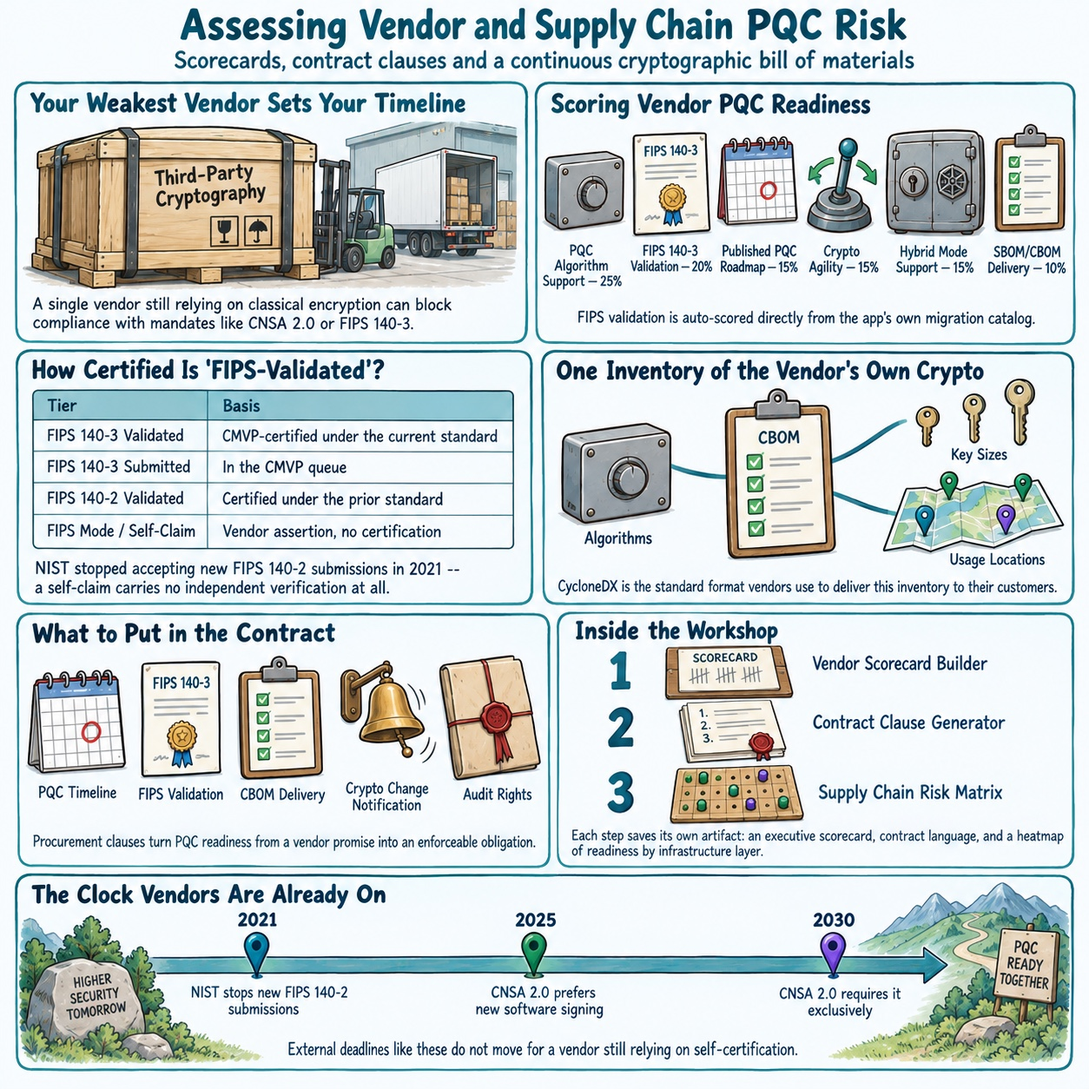
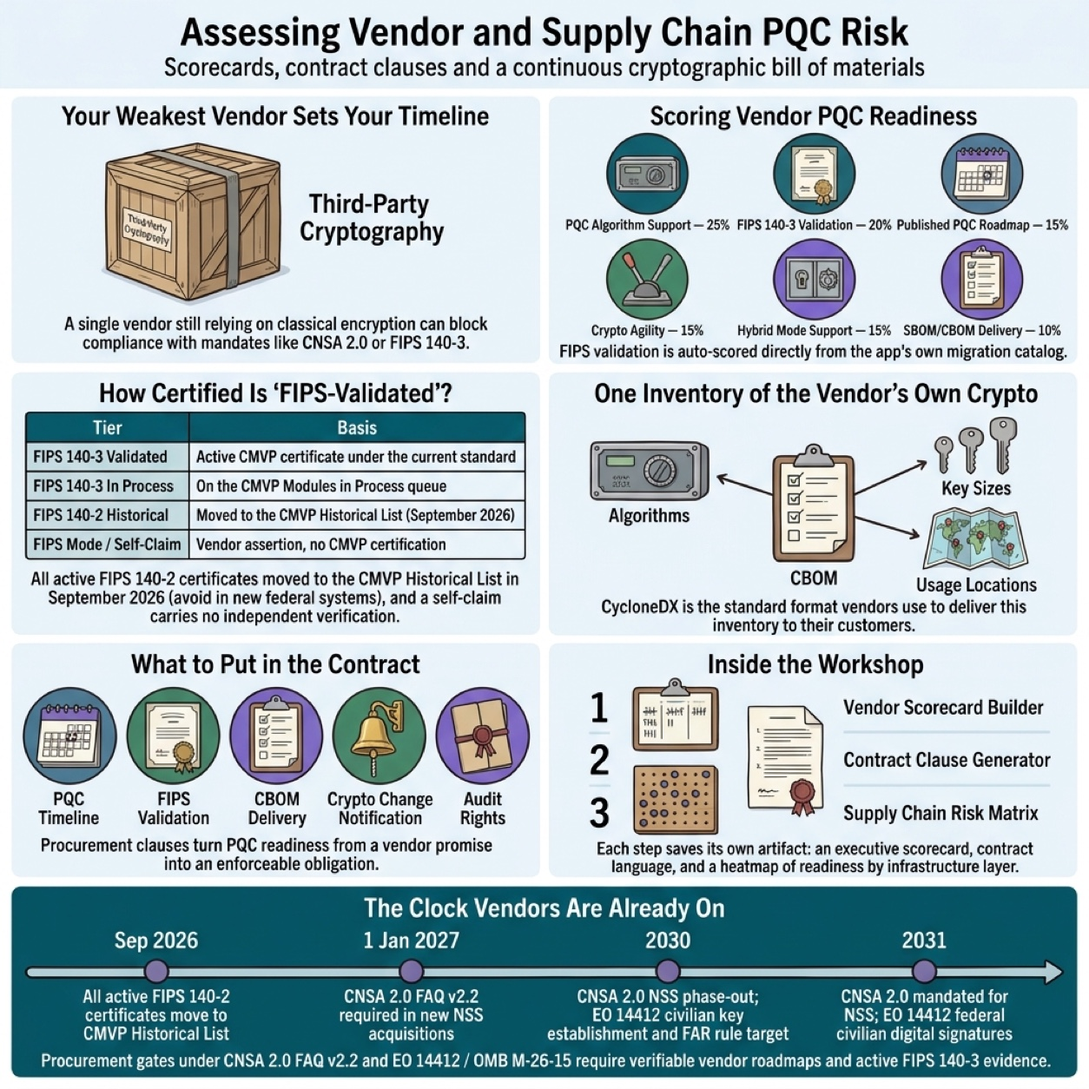
release: v4.218.1 — expanded Hub FAQ, 21 Storybook Blue visual posters, and PR #993 revision promotion

diff --git a/src/components/FAQ/faqData.ts b/src/components/FAQ/faqData.ts
@@ -542,7 +542,7 @@ export const FAQ_DATA: FAQCategory[] = [
       {
         question: 'What OpenSSH version supports PQC?',
         answer:
-          "OpenSSH 8.5 (2021) introduced the sntrup761x25519-sha512 hybrid key exchange, which combines the NTRU Prime lattice-based KEM with classical X25519 ECDH, and OpenSSH 9.0 made it the default. More recent OpenSSH development includes support for ML-KEM-768-based hybrid key exchange, aligning with NIST's standardized algorithms. The VPN/SSH module explains host key migration and client configuration for PQC.",
+          'OpenSSH 8.5 (2021) introduced the sntrup761x25519-sha512 hybrid key exchange, and OpenSSH 9.0 made it the default. OpenSSH 9.9 added the NIST-standardized mlkem768x25519-sha256 hybrid key exchange (RFC 10042), and OpenSSH 10.0 made mlkem768x25519-sha256 the default key-exchange algorithm. Note that hybrid key exchange protects session confidentiality against Harvest Now, Decrypt Later attacks, while SSH host-key and user authentication remain classical (such as Ed25519 or ECDSA) unless separately configured; verify negotiated algorithms with ssh -vvv against your actual jump hosts and clients. The VPN/SSH module covers configuration and verification.',
         deepLink: '/learn/vpn-ssh-pqc',
       },
       {
@@ -633,6 +633,20 @@ export const FAQ_DATA: FAQCategory[] = [
           'Zero Trust architecture relies heavily on cryptographic authentication at every access point — device attestation certificates, mutual TLS, JWT and SAML token signatures, and API gateway authentication all use algorithms that are quantum-vulnerable and need PQC upgrades. The transition is especially complex because Zero Trust systems often involve multiple identity providers, device management platforms, and micro-segmentation controllers. The IAM PQC module covers the identity and authentication layer migration.',
         deepLink: '/learn/iam-pqc',
       },
+      {
+        id: 'cloud-pqc-migration',
+        question: 'How does PQC migration work across AWS, Azure, and Google Cloud (Cloud & SaaS)?',
+        answer:
+          'Start by separating the cloud service (such as object storage, managed databases, or records archiving) from the protected asset (long-lived encrypted records exposed to Harvest Now, Decrypt Later risk) — moving workloads to the cloud does not migrate customer-controlled TLS policies, origin legs, KMS keys, or BYOK wrappers automatically. Edge CDNs and load balancers may negotiate TLS 1.3 hybrid key exchange (X25519MLKEM768, 0x11EC under RFC 9846 and RFC 10024) while origin connections stay classical, and ~1,216-byte ClientHello key_share payloads can trigger middlebox truncation. Cloud KMS offerings also differ sharply: AWS KMS supports ML-DSA (June 2025) and ML-KEM (October 2026, with China/UAE/Bahrain regional exclusions, RSA-only BYOK import, 32-byte plaintext Decapsulate output, and no key-policy condition requiring PQ-TLS — verify negotiated keyExchange in CloudTrail); Google Cloud KMS reached GA for ML-DSA and SLH-DSA in July 2026 with HPKE key import in Preview; and Azure Key Vault uses CKM_RSA_AES_KEY_WRAP for BYOK without KMIP. Across SaaS, OIDC, and SAML dependencies, treat any unverified or Unknown vendor answer as an evidence gap rather than low exposure. The Cloud & Multi-Cloud PQC module walks through each layer.',
+        deepLink: '/learn/cloud-pqc',
+      },
+      {
+        id: 'pqc-implementation-security',
+        question: 'Why is mathematical security not enough — what is PQC implementation security?',
+        answer:
+          'Known-answer validation (such as ACVP vector testing) confirms that an implementation computes the right mathematical output, not that its compiled binary or silicon resists timing, power, electromagnetic, or fault-injection attacks. Real-world lattice vulnerabilities such as KyberSlash leaked ML-KEM secret keys through variable-latency hardware division instructions on modulus q = 3329, requiring constant-time Barrett or Montgomery reduction verified on compiled binaries via per-ISA disassembly scans (banning DIV/SDIV/UDIV), dudect timing statistics, and Timecop/ctgrind taint analysis. FIPS 203 Algorithm 18 also mandates Fujisaki-Okamoto implicit rejection in ML-KEM.Decaps — computing K_bar = J(z || c) unconditionally, comparing re-encrypted ciphertexts in constant time, selecting K or K_bar via branchless conditional move, and zeroizing intermediate values without returning a decryption error oracle. For HSMs, smart cards, and embedded targets, defenses combine arithmetic and boolean masking, operation shuffling, and verify-after-sign fault checks, evaluated with leakage screening such as ISO/IEC 17825 Welch’s t-test (TVLA |t| <= 4.5, noting that a first-order TVLA pass screens statistical leakage rather than proving higher-order or template-attack resistance). The PQC Implementation Security module covers each defense and its evaluation limits.',
+        deepLink: '/learn/pqc-implementation-security',
+      },
     ],
   },
 
@@ -682,8 +696,8 @@ export const FAQ_DATA: FAQCategory[] = [
       {
         question: 'What is the energy sector PQC migration?',
         answer:
-          'The energy sector must migrate PQC across SCADA and ICS protocols (including DNP3 and IEC 61850 Secure Authentication), substation automation (IEC 62351), and grid management systems, while managing long equipment lifecycles. The NERC-CIP standards named in the NERC-CIP entry above do not mention PQC, so quantum-resilient cryptography for bulk electric system protection is a readiness recommendation based on those lifecycles, not a NERC-CIP requirement today. The Energy and Utilities module covers the specific protocols and regulatory requirements.',
-        deepLink: '/learn/ot-pqc',
+          'Energy and utility operators must separate operational grid services (SCADA telecontrol, AMI meter collection, IED firmware distribution) from protected assets (long-lived grid topology records, metering histories, and signing roots) and match PQC patterns to strict physical constraints. Inside substations, IEC 61850 GOOSE and Sampled Values protection loops operate under a sub-4 ms trip budget and 1,500-byte Ethernet MTU where 2,420-byte ML-DSA-44 signatures do not fit, so real-time IEC 62351-6 frames retain 32-byte HMAC-SHA-256 and AES-256-GCM while out-of-band GDOI (RFC 8052) and TLS 1.3 key distribution migrate to ML-KEM-768. Control-center WAN links upgrade primary fiber and failover paths to hybrid TLS 1.3 (RFC 10024) and IKEv2 (RFC 9370), while 15-to-25-year field assets and 127-byte IEEE 802.15.4g AMI meter meshes (DLMS/COSEM IEC 62056) pair head-end PQC VPNs and 256-bit symmetric keys with LMS-SHA256 or ML-DSA firmware verification in new RFPs. The NERC-CIP standards named in the NERC-CIP entry above do not mention PQC, so quantum-resilient cryptography for bulk electric system protection is a readiness recommendation based on those lifecycles, not a NERC-CIP requirement today. The Energy, Utilities & Grid PQC module covers these protocols, MTU budgets, and regulatory boundaries.',
+        deepLink: '/learn/energy-utilities-pqc',
       },
       {
         question: 'How does PQC protect AI systems?',
@@ -716,7 +730,7 @@ export const FAQ_DATA: FAQCategory[] = [
       {
         question: 'Can I test PQC algorithms in my browser?',
         answer:
-          "Yes, PQC Today's Playground runs ML-KEM, ML-DSA, SLH-DSA, and over 40 additional algorithms directly in your browser using WebAssembly, performing real cryptographic operations without sending any data to a server. You can generate keys, encapsulate/decapsulate shared secrets, sign and verify messages, and compare algorithm performance. The Playground supports both the liboqs library and a PKCS#11 v3.2 HSM simulator.",
+          "Yes. PQC Today's Playground provides 34 interactive WebAssembly and client-side cryptographic tools — including ML-KEM, ML-DSA, SLH-DSA, LMS/HSS, XMSS, dual-engine SoftHSMv3 (C++ and Rust) PKCS#11 v3.2, OpenSSL 3.6.3 WASM, KMIP, TPM 2.0, SP 800-90B entropy assessment, SSH/IKEv2/TLS/HPKE/Hybrid Certs labs, ACVP vector suites, and editable Pyodide (Python 3.14.2) PKCS#11 and KMIP workbenches — without sending keys or sample data to a server. Playground runs teach mechanism behavior, wire framing, and capability requirements using sample keys; they do not substitute for testing or certifying your own CMVP-validated production hardware and software.",
         deepLink: '/playground',
       },
       {
@@ -728,7 +742,7 @@ export const FAQ_DATA: FAQCategory[] = [
       {
         question: 'How many learning modules does PQC Today offer?',
         answer:
-          'PQC Today offers dozens of interactive learning modules organized across nine tracks: Foundations, Protocols, Applications, Hardware Infrastructure, Software Infrastructure, Strategy, Industries, Governance & Risk, and Role Guides. Each module includes an introduction with glossary-linked terms, interactive workshop exercises, and knowledge assessment questions. Module durations range from 10 minutes to 120 minutes depending on complexity.',
+          'PQC Today offers 79 interactive learning modules (plus a 1,178-question adaptive quiz) organized across nine tracks: Foundations, Protocols, Applications, Hardware Infrastructure, Software Infrastructure, Strategy, Industries, Governance & Risk, and Role Guides. Each module includes an introduction with glossary-linked terms, a Storybook Blue visual summary, interactive workshop exercises, role capability checklists, decision scenarios, and Reference Library backlinks. Completing sample exercises builds decision readiness for your role; it does not verify a deployed production system.',
         deepLink: '/learn',
       },
       {
@@ -746,7 +760,7 @@ export const FAQ_DATA: FAQCategory[] = [
       {
         question: 'What is the PQC Reference Library?',
         answer:
-          'The PQC Reference Library is a curated collection of hundreds of standards, RFCs, research papers, and migration guides relevant to post-quantum cryptography, with cross-references linking related documents and enrichment metadata providing summaries and PQC relevance assessments. Documents are categorized by type, issuing organization, and relevance to specific algorithms and use cases. The Library supports full-text search and filtering.',
+          'The PQC Reference Library is a curated collection of over 1,500 standards, RFCs, research papers, certification schemes, and national migration guides relevant to post-quantum cryptography, with cross-references linking related documents to Learn modules, compliance frameworks, and algorithms, plus enrichment summaries and PQC relevance assessments. The Library supports full-text search, topic filtering, and shareable deep links.',
         deepLink: '/library',
       },
       {
@@ -764,13 +778,13 @@ export const FAQ_DATA: FAQCategory[] = [
       {
         question: "Where should I start if I'm new to PQC?",
         answer:
-          "Start with PQC 101 — a 30-minute foundational module covering what quantum computers can break, why migration is urgent, and how to use Mosca's Theorem to gauge your own deadline. If you prefer context by role: executives should visit the Executive Quantum Impact module, developers the Developer Quantum Impact module, and architects the Architect module. For an organization-specific starting point, run the PQC Risk Assessment wizard — it takes about 15 minutes and produces a prioritized action list based on your industry, country, and data profile. Use this FAQ's search bar to jump directly to any specific topic.",
+          "Start with PQC 101 — a 30-minute foundational module covering what quantum computers can break, why migration is urgent, and how to use Mosca's Theorem to gauge your own deadline — or pick one of the 8 role-tailored learning paths (Executive, GRC & Compliance, Developer, Architect, Researcher, Certification Engineer, IT Operations, or Curious Explorer), each split into a focused Essentials path and a full mastery curriculum. For an organization-specific starting point, run the PQC Risk Assessment wizard to generate a prioritized educational roadmap based on your industry, country, and data profile.",
         deepLink: '/learn/pqc-101',
       },
       {
         question: 'What is the Business Center (GRC Command Center)?',
         answer:
-          'The Business Center is a governance, risk, and compliance command center aligned to NIST CSWP.39, with 34 board-ready planning tools — including an ROI Calculator, Board Pitch builder, CRQC Scenario, Risk Register, Risk Treatment Plan, RACI Builder, Roadmap Builder, KPI dashboards, Vendor Scorecard, and Deployment Playbook. Each tool produces a downloadable artifact (DOCX, PDF, or CSV) you can take into stakeholder and audit conversations.',
+          'The Business Center is a governance, risk, and compliance command center aligned to NIST CSWP 39, with 37 planning and governance tools — including an ROI Calculator, Board Pitch Builder, CRQC Scenario Planner, Risk Register, Risk Treatment Plan, RACI Builder, Roadmap Builder, Migration Verification, Cloud Responsibility Matrix, Vendor Scorecard, and Deployment Playbook. Each tool uses transparent sample scenarios and exports structured planning artifacts (DOCX, PDF, CSV, or Markdown) to guide what your team must configure, test, and evidence in your own production tools.',
         deepLink: '/business',
       },
       {
@@ -784,6 +798,25 @@ export const FAQ_DATA: FAQCategory[] = [
         answer:
           'Yes. The Patents page is a searchable landscape of post-quantum cryptography patents, scored for quantum relevance and crypto-agility and tagged by assignee, region, protocol, replaced classical algorithm, hardware component, and NIST standardization status. It also serves as CSWP.39 maturity evidence. Use the Insights, Explore, and Search tabs to filter, and open any patent record directly with a shareable link.',
         deepLink: '/patents',
+      },
+      {
+        question: 'How do the 8 role learning paths and Knowledge Graph (/explore) work?',
+        answer:
+          'PQC Today curates dedicated learning journeys for eight roles — Executive, GRC & Compliance, Developer, Architect, Researcher, Certification Engineer, IT Operations, and Curious Explorer — separating a streamlined Essentials track from deeper domain mastery so each role focuses on the decisions it actually owns. The Explore page connects those paths with an interactive Knowledge Graph mapping relationships across modules, standards, algorithms, threats, compliance frameworks, and interactive tools.',
+        deepLink: '/explore',
+      },
+      {
+        question: 'How does the adaptive PQC Quiz work?',
+        answer:
+          'The PQC Quiz draws from a pool of 1,178 scenario- and decision-based questions spanning FIPS 203/204/205, NIST IR 8547, CNSA 2.0 FAQ v2.2, EO 14412 / OMB M-26-15, FIPS 140-3 and EUCC validation, cloud KMS boundaries, side-channel defenses, and sector-specific OT/grid constraints. Learners can take role-scoped Essentials checks or topic-filtered practice sets with detailed source-backed explanations.',
+        deepLink: '/learn/quiz',
+      },
+      {
+        question:
+          'How does PQC Today verify data provenance, revisions, and software supply-chain trust?',
+        answer:
+          'Key platform datasets and inventory artifacts — including the content revision log, the RAG search corpus and vector embeddings, the CycloneDX 1.7 Software Bill of Materials (SBOM), the Cryptography Bill of Materials (CBOM), and OSCAL governance bundles — carry detached ML-DSA-65 cryptographic signatures verified at build and deploy time. You can inspect dataset freshness, software inventory versions, and revision history directly on the Revisions and About pages.',
+        deepLink: '/revisions',
       },
       {
         question: 'Can I bookmark or share a specific view?',
@@ -811,7 +844,7 @@ export const FAQ_DATA: FAQCategory[] = [
       {
         question: 'What PQC libraries should developers use?',
         answer:
-          "Treat sample and research libraries and production libraries as two different decisions. For learning, prototypes and interoperability tests, liboqs (C, with wrappers such as liboqs-python) and oqsprovider for OpenSSL are sample and research options: their own documentation says not to rely on them in a production environment or to protect sensitive data. For production, evaluate the supported library already in your platform and language stack. For example, OpenSSL 3.5 and later include ML-KEM, ML-DSA and SLH-DSA natively; Go's standard library has had crypto/mlkem since Go 1.24 and enables X25519MLKEM768 by default in crypto/tls; and Bouncy Castle for Java and AWS-LC include ML-KEM and ML-DSA implementations. The Rust pqcrypto crates are marked unmaintained by their maintainers, who advise against using them in new projects. For any library, evaluate before production: whether the release is supported and maintained, what validation applies (a FIPS 140-3 certificate covers a specific validated module, as with the FIPS module of AWS-LC, not every feature of a library), and whether the protocols you need interoperate with your peers. The Developer Quantum Impact module covers library API transitions across OpenSSL, Bouncy Castle and liboqs bindings.",
+          "Treat sample and research libraries and production libraries as two different decisions. For learning, prototypes and interoperability tests, liboqs (C, with wrappers such as liboqs-python) and oqsprovider for OpenSSL are sample and research options: their own documentation says not to rely on them in a production environment or to protect sensitive data. For production, evaluate the supported library already in your platform and language stack. For example, OpenSSL 3.5 and later include ML-KEM, ML-DSA and SLH-DSA natively; Go's standard library has had crypto/mlkem since Go 1.24 and enables X25519MLKEM768 by default in crypto/tls; Node.js 24+ includes native node:crypto ML-KEM and ML-DSA APIs plus hybrid TLS groups; Java 24+ JCA provides standard KEM and ML-DSA Signature APIs alongside Bouncy Castle; and AWS-LC includes ML-KEM and ML-DSA implementations. The Rust pqcrypto crates are marked unmaintained by their maintainers, who advise against using them in new projects. For any library, evaluate before production: whether the release is supported and maintained, what validation applies (a FIPS 140-3 certificate covers a specific validated module, as with the FIPS module of AWS-LC, not every feature of a library), and whether the protocols you need interoperate with your peers. The Developer Quantum Impact and Crypto Dev APIs modules include side-by-side before-and-after migration code diffs across Go 1.24+, OpenSSL 3.5+, Node.js 24+ and Java 24+ JCA.",
         deepLink: '/learn/dev-quantum-impact',
         persona: 'developer',
       },
@@ -847,6 +880,23 @@ export const FAQ_DATA: FAQCategory[] = [
         answer:
           "The PQC Governance module provides a RACI (Responsible, Accountable, Consulted, Informed) matrix builder for PQC migration stakeholders, policy templates covering four organizational layers (board, executive, management, operational), governance model selection guidance, and a KPI dashboard for tracking migration progress at the board level. It integrates with the Risk Assessment to align governance decisions with your organization's specific risk profile.",
         deepLink: '/learn/pqc-governance',
+        persona: 'grc',
+      },
+      {
+        id: 'cert-engineer-quantum-impact',
+        question: 'What should certification engineers know about PQC validation?',
+        answer:
+          'Active FIPS 140-2 certificates moved to the CMVP Historical List on 21 September 2026, so adding ML-KEM, ML-DSA, or SLH-DSA runs through FIPS 140-3 and a congested Modules in Process (MIP) queue across new validations and 1SUB/3SUB/5SUB updates. PQC validation combines deterministic seed-driven ACVP Algorithm Functional Tests (AFT) for keyGen, FIPS 140-3 IG 10.3.A pre-operational CASTs and conditional PCTs inside the module boundary, and mandatory SP 800-90B Entropy Source Validation (ESV) paired with SP 800-90C seeding rules, alongside regional schemes such as EUCC (CIR (EU) 2024/482), NIAP Policy #33, and PCI PTS HSM v5.0 (kept separate from PCI DSS v4.0.1 operational rules). Never equate an ACVP validation record, a CAVP algorithm certificate, or a MIP queue listing with an active FIPS 140-3 module certificate — verify exact firmware, operating environment, and Security Policy, and record Unknown wherever evidence is missing. The Quantum Impact on Certification Engineers module maps these lab schedules and evidence boundaries.',
+        deepLink: '/learn/cert-quantum-impact',
+        persona: 'cert-engineer',
+      },
+      {
+        id: 'curious-talking-about-pqc',
+        question: 'How do I explain PQC to non-specialists or explore as a Curious learner?',
+        answer:
+          'The Curious Explorer Essentials path pairs three short, plain-language modules — PQC 101, Quantum Threats, and Talking About PQC (80 minutes total) — with Storybook Blue visual summaries on every module so newcomers can grasp why RSA and ECC need replacing, why Harvest Now, Decrypt Later creates immediate urgency for long-lived secrets, and how to separate sourced government timelines from hype without heavy math or organizational jargon.',
+        deepLink: '/learn/talking-about-pqc',
+        persona: 'curious',
       },
       {
         question: 'How do I assess vendor PQC readiness?',
@@ -974,9 +1024,9 @@ export const PERSONA_FAQ_LEAD: Record<PersonaId, string[]> = {
     'Is PQC Today open source?',
   ],
   'cert-engineer': [
+    'What should certification engineers know about PQC validation?',
     'What is FIPS 140-3 and why does the validation backlog matter?',
     "What is Common Criteria's role in PQC?",
-    'What HSMs support ML-KEM and ML-DSA?',
   ],
   ops: [
     'What PQC operations tasks should IT teams plan?',
@@ -984,8 +1034,8 @@ export const PERSONA_FAQ_LEAD: Record<PersonaId, string[]> = {
     'How do you configure PQC TLS on Linux?',
   ],
   curious: [
+    'How do I explain PQC to non-specialists or explore as a Curious learner?',
     "Where should I start if I'm new to PQC?",
-    'What is post-quantum cryptography (PQC)?',
     'What is a "Harvest Now, Decrypt Later" (HNDL) attack?',
   ],
 }

diff --git a/src/components/FAQ/FAQPage.test.tsx b/src/components/FAQ/FAQPage.test.tsx
@@ -3,6 +3,8 @@ import { describe, it, expect, beforeEach } from 'vitest'
 import { render, screen, within } from '@testing-library/react'
 import { MemoryRouter } from 'react-router'
 import { FAQPage } from './FAQPage'
+import { FAQ_DATA } from './faqData'
+import { PERSONA_IDS } from '@/data/learningPersonas'
 import { usePersonaStore } from '@/store/usePersonaStore'
 
 function renderPage() {
@@ -36,7 +38,19 @@ describe('FAQPage persona highlight ("float, don\'t filter")', () => {
     const questionButtons = withinSection.getAllByRole('button')
     expect(questionButtons[0]).toHaveTextContent('What PQC libraries should developers use?')
 
-    // Nothing was hidden — all eight Role-Specific Guidance questions remain.
-    expect(questionButtons.length).toBe(8)
+    // Nothing was hidden — all ten Role-Specific Guidance questions remain.
+    const rolesCat = FAQ_DATA.find((c) => c.id === 'roles')!
+    expect(questionButtons.length).toBe(rolesCat.items.length)
+    expect(rolesCat.items.length).toBe(10)
+  })
+
+  it('gives every one of the 8 personas exactly one highlighted Role-Specific Guidance question', () => {
+    for (const persona of PERSONA_IDS) {
+      usePersonaStore.getState().setPersona(persona)
+      const { unmount } = renderPage()
+      const section = document.getElementById('roles') as HTMLElement
+      expect(within(section).getAllByText('For you'), persona).toHaveLength(1)
+      unmount()
+    }
   })
 })

diff --git a/src/components/FAQ/faqData.test.ts b/src/components/FAQ/faqData.test.ts
@@ -368,6 +368,25 @@ describe('library and protocol-stack answers', () => {
     // The answer spells the count out; a tenth track means the answer needs rewording.
     expect(MODULE_TRACKS).toHaveLength(9)
     expect(answer).toContain('nine tracks')
+    expect(answer).toContain('79 interactive learning modules')
+  })
+
+  it('reflects expanded Hub platform counts and links all four v4.217.0 Learn modules', () => {
+    const biz = answerOf('What is the Business Center (GRC Command Center)?')
+    expect(biz).toContain('37 planning and governance tools')
+    const pg = answerOf('Can I test PQC algorithms in my browser?')
+    expect(pg).toContain('34 interactive')
+    const lib = answerOf('What is the PQC Reference Library?')
+    expect(lib).toContain('over 1,500')
+
+    const deepLinks = new Set(FAQ_DATA.flatMap((c) => c.items).map((i) => i.deepLink.split('?')[0]))
+    expect(deepLinks.has('/learn/cert-quantum-impact')).toBe(true)
+    expect(deepLinks.has('/learn/cloud-pqc')).toBe(true)
+    expect(deepLinks.has('/learn/pqc-implementation-security')).toBe(true)
+    expect(deepLinks.has('/learn/energy-utilities-pqc')).toBe(true)
+    expect(deepLinks.has('/explore')).toBe(true)
+    expect(deepLinks.has('/revisions')).toBe(true)
+    expect(deepLinks.has('/learn/quiz')).toBe(true)
   })
 })
 

diff --git a/src/data/infographicImageRevisions.ts b/src/data/infographicImageRevisions.ts
@@ -12,10 +12,25 @@ export const INFOGRAPHIC_IMAGE_REVISIONS: Record<string, string> = {
   'crypto-dev-apis': '2b2a9b0db236fc78',
   'pqc-hw-acceleration': '4d8c8aaeef3630d4',
   'merkle-tree-certs': 'c443553ff4dc196b',
-  'slh-dsa': 'a2329a0de6b281f7',
-  'os-pqc': '3e776541eeb3df71',
-  'vpn-ssh-pqc': 'b3aa0ab3b0de8fe4',
-  'hybrid-crypto': '1f2a869c9b64265a',
-  'dev-quantum-impact': '6d0a29beb895c04d',
-  'code-signing': '33c00d91b9dee53f',
+  'slh-dsa': '3236cfe444f49856',
+  'os-pqc': '0b840708361a6e93',
+  'vpn-ssh-pqc': '13d38ce76cc7a759',
+  'hybrid-crypto': '01f609ce1877fad8',
+  'dev-quantum-impact': 'da767e398596d785',
+  'code-signing': 'c372d570d7bec8f0',
+  'cert-quantum-impact': '5e583a55447bfe29',
+  'cloud-pqc': '0b3c70c3f39f7c1b',
+  'pqc-implementation-security': 'c0caa538b4c21ca7',
+  'energy-utilities-pqc': '6b9f30019c22652f',
+  'talking-about-pqc': 'c6e70d3e3cf505ec',
+  'compliance-strategy': '12e12794c0d56809',
+  'pqc-risk-management': 'dae8cd8cf0fceaf3',
+  'pqc-governance': '679504b57245d34a',
+  'vendor-risk': 'a75b8e88f7497c46',
+  'pki-workshop': '9cb32d1a28121d4f',
+  'kms-pqc': '1228a59879e7524a',
+  'stateful-signatures': '0ce2cc4613fc17a1',
+  'quantum-threats': 'fda6a876467d304d',
+  'pqc-101': 'e74cdd7139486800',
+  'pqc-business-case': '7ac77def4093e729',
 }

diff --git a/src/components/FAQ/FAQPage.tsx b/src/components/FAQ/FAQPage.tsx
@@ -248,7 +248,8 @@ export function FAQPage({ inDrawer = false }: { inDrawer?: boolean } = {}) {
         </div>
         <p className="text-muted-foreground">
           {totalQuestions} answers about post-quantum cryptography — algorithms, NIST standards,
-          migration timelines, compliance, and more.
+          migration timelines, compliance, 8 role learning paths, interactive labs, and governance
+          tools.
         </p>
       </div>
 

diff --git a/CHANGELOG.md b/CHANGELOG.md
@@ -29,6 +29,18 @@ first time (don't ship dev-speak and reformat later):
 - **One entry = one user-visible change.** If it has no user-visible effect,
   it probably doesn't need a changelog entry.
 
+## [4.218.1] - 2026-11-19
+
+Expanded the FAQ page to cover the full 79-module, 37-business-tool, 34-playground-tool, and 8-role Hub scope, and unified 21 Learn module Visual tab posters in the 1254×1254 Storybook Blue illustration style with late-2026 standards milestones.
+
+### Added
+
+- **Expanded FAQ coverage for Cloud, Implementation Security, Certification, Curious Explorer, Knowledge Graph, Quiz, and Provenance** [view:/faq] [persona:executive] [persona:grc] [persona:developer] [persona:architect] [persona:researcher] [persona:cert-engineer] [persona:ops] [persona:curious]: added dedicated FAQ entries for Cloud & Multi-Cloud PQC, PQC Implementation Security, Certification Engineer validation scope, Curious Explorer plain-language onboarding, the 8 role learning paths and Knowledge Graph (`/explore`), the 1,178-question adaptive Quiz (`/learn/quiz`), and ML-DSA-65-signed dataset and SBOM provenance (`/revisions`), while updating platform counts (`79` modules, `37` Business Center tools, `34` Playground tools, `1,500+` Reference Library documents), Energy & Utilities grid constraints, Node.js 24+ and Java 24+ developer guidance, and OpenSSH 10.0+ hybrid key exchange defaults.
+
+### Changed
+
+- **Unified 21 Learn module Visual tab posters in Storybook Blue with late-2026 regulatory and standards facts** [view:/learn] [persona:executive] [persona:grc] [persona:developer] [persona:architect] [persona:researcher] [persona:cert-engineer] [persona:ops] [persona:curious]: added and refreshed 1254×1254 Storybook Blue Visual tab posters with cache-busting image revisions across the four newest Learn modules (Quantum Impact on Certification Engineers, Cloud & Multi-Cloud PQC, PQC Implementation Security, Energy, Utilities & Grid PQC), six core technical modules (SLH-DSA, OS PQC, VPN & SSH PQC, Hybrid Crypto, Developer Quantum Impact, Code Signing), and eleven governance, PKI, KMS, and foundations modules (Talking About PQC Accurately, Compliance Strategy, PQC Risk Management, PQC Governance, Vendor & Supply Chain Risk, PKI Workshop, KMS & PQC, Stateful Hash Signatures, Quantum Threats, PQC 101, and PQC Business Case), reflecting NSA CNSA 2.0 FAQ v2.2 (2027/2030/2031 NSS milestones), EO 14412 & OMB M-26-15 (2030/2031 federal civilian milestones), final NIST IR 8547 (2030/2035), and FIPS 140-2 Historical status.
+
 ## [4.218.0] - 2026-11-19
 
 Comprehensive November 2026 data refresh across Library, Migrate, Timeline, Threats, Vendors, Certifications, and Protocols, paired with an updated and re-signed search index and a 5.8× reduction in live notes footprint.

diff --git a/README.md b/README.md
@@ -110,7 +110,7 @@ None of those labels turns a local demonstration into an ACVP, CAVP, CMVP, Commo
 
 ### Current committed snapshot
 
-Release **4.218.0** · source-data snapshot through **2026-11-18**. These figures are derived from the committed registries and current CSV lineages; they are not live counts.
+Release **4.218.1** · source-data snapshot through **2026-11-18**. These figures are derived from the committed registries and current CSV lineages; they are not live counts.
 
 - **Learn:** 79 instructional modules and 1,178 quiz questions.
 - **Core references:** 130 algorithm records, 198 timeline events and 1,501 active Library records.
